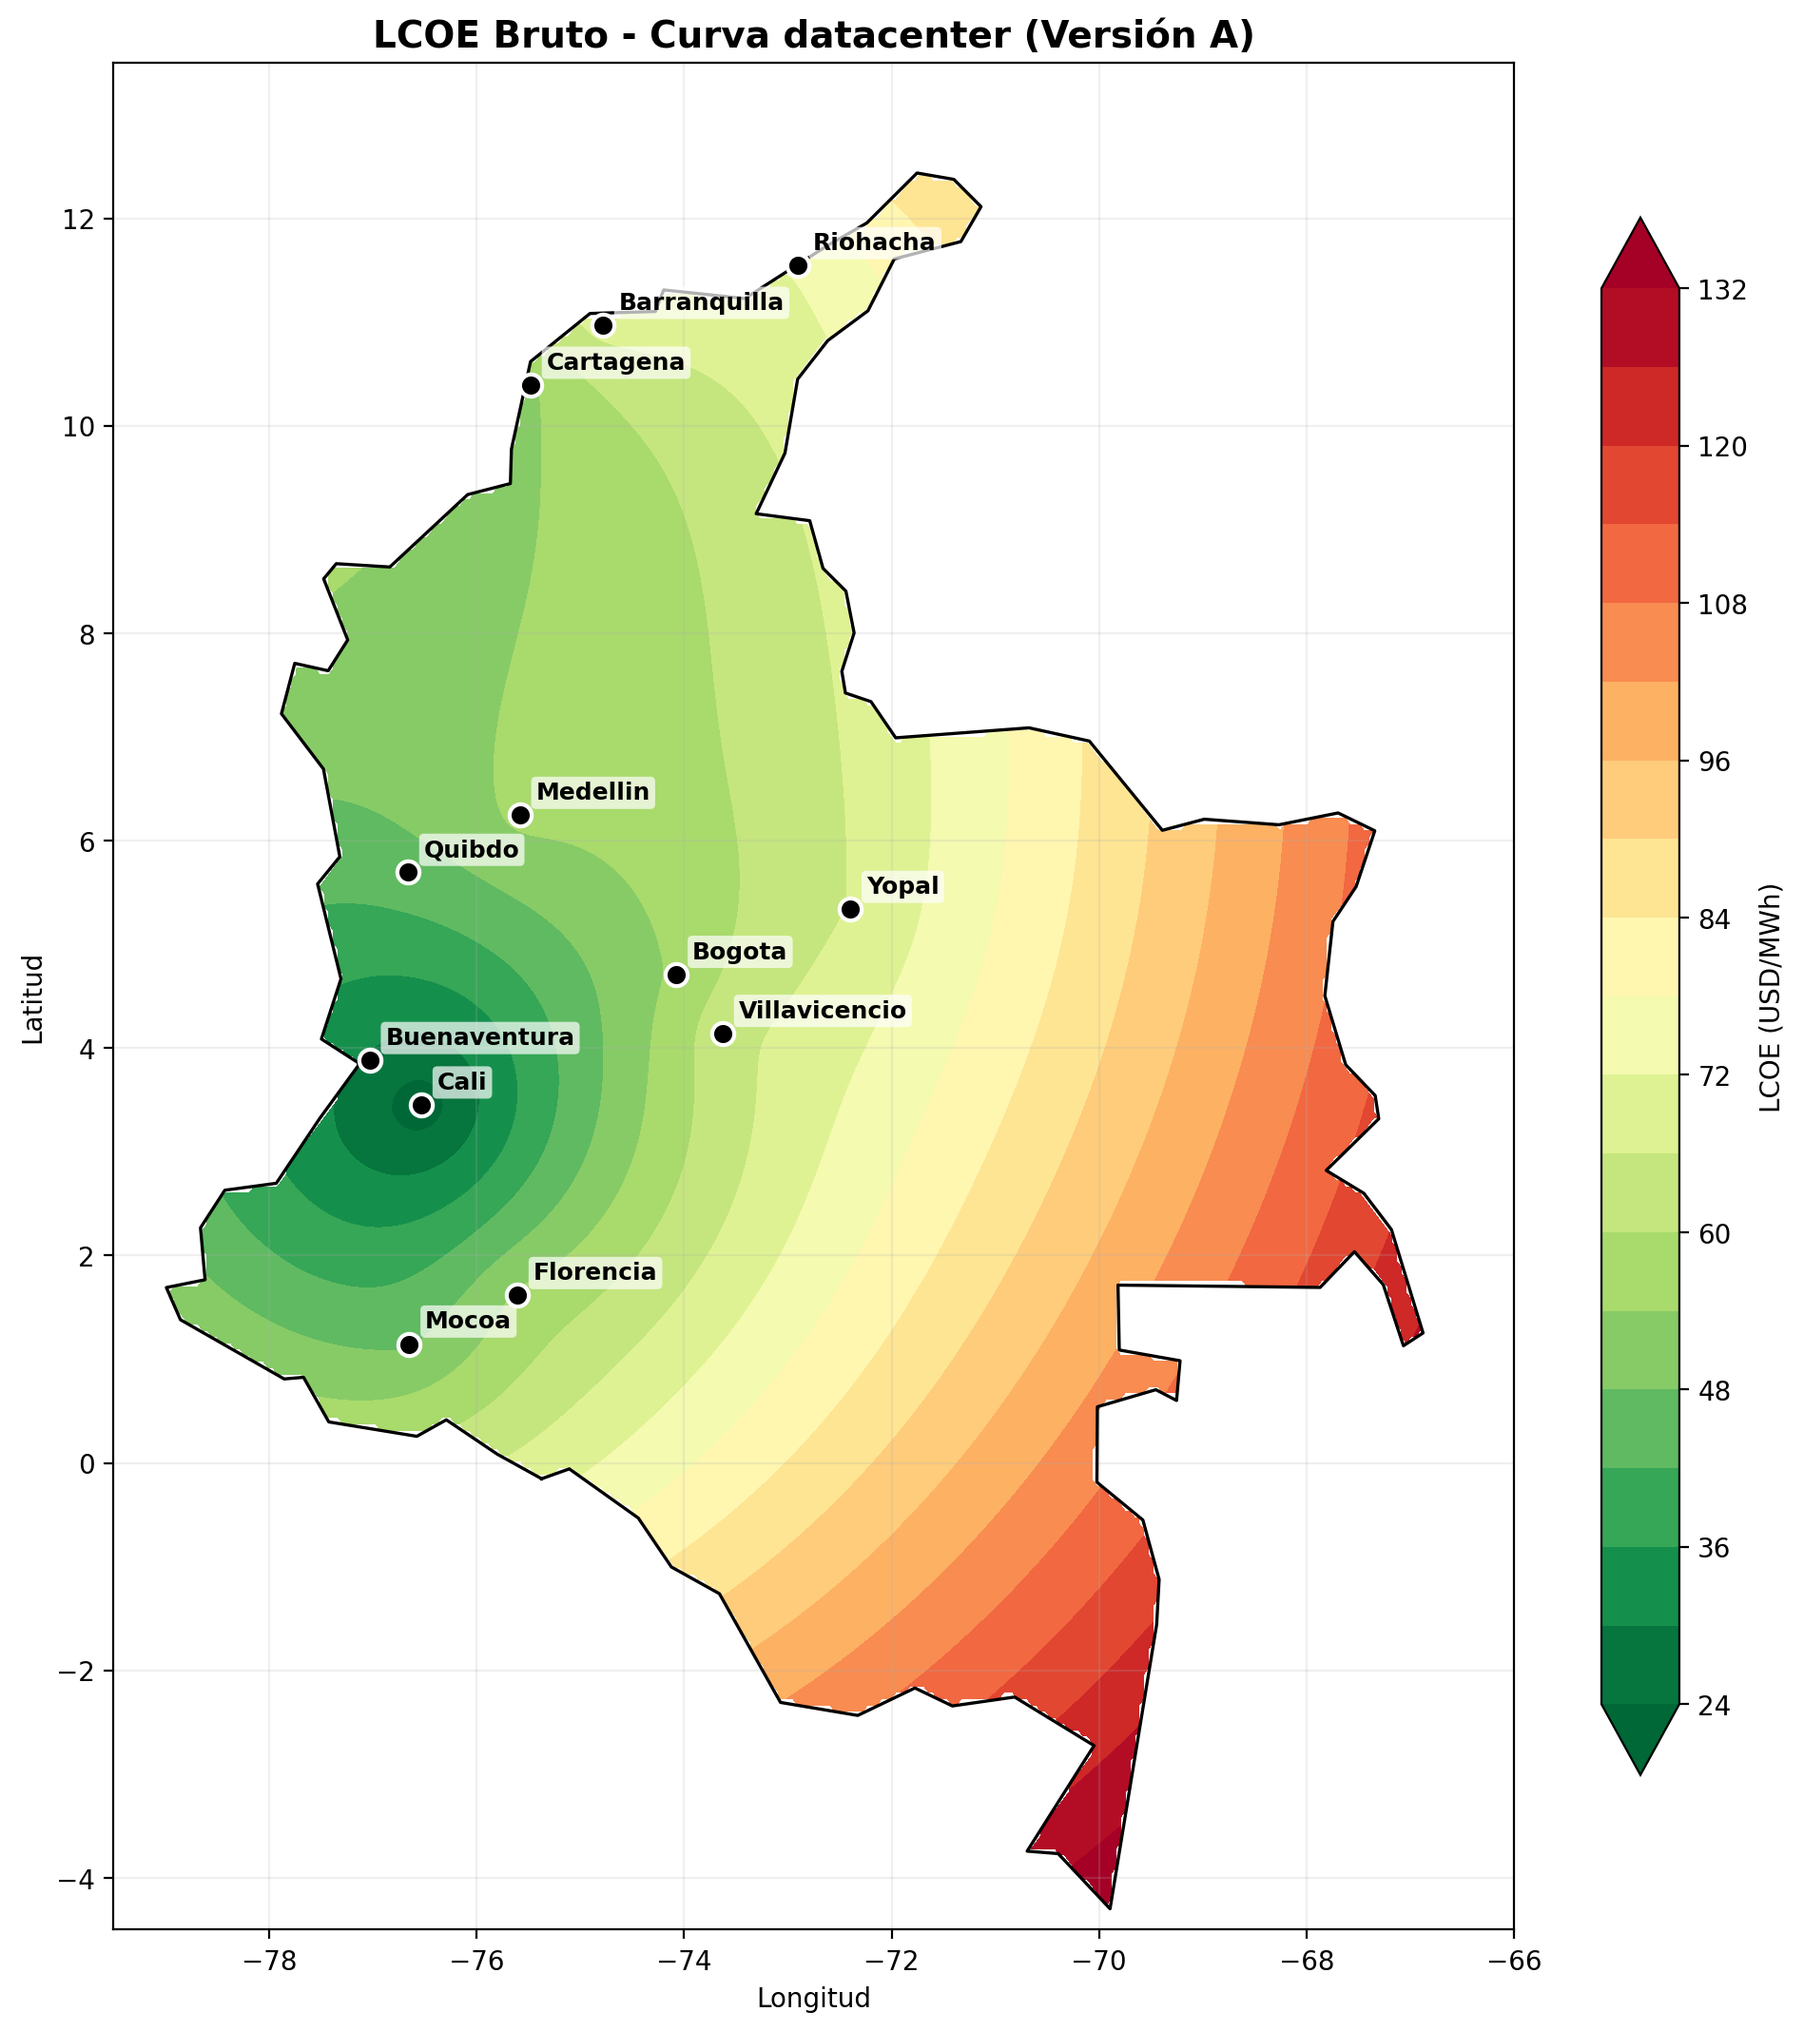
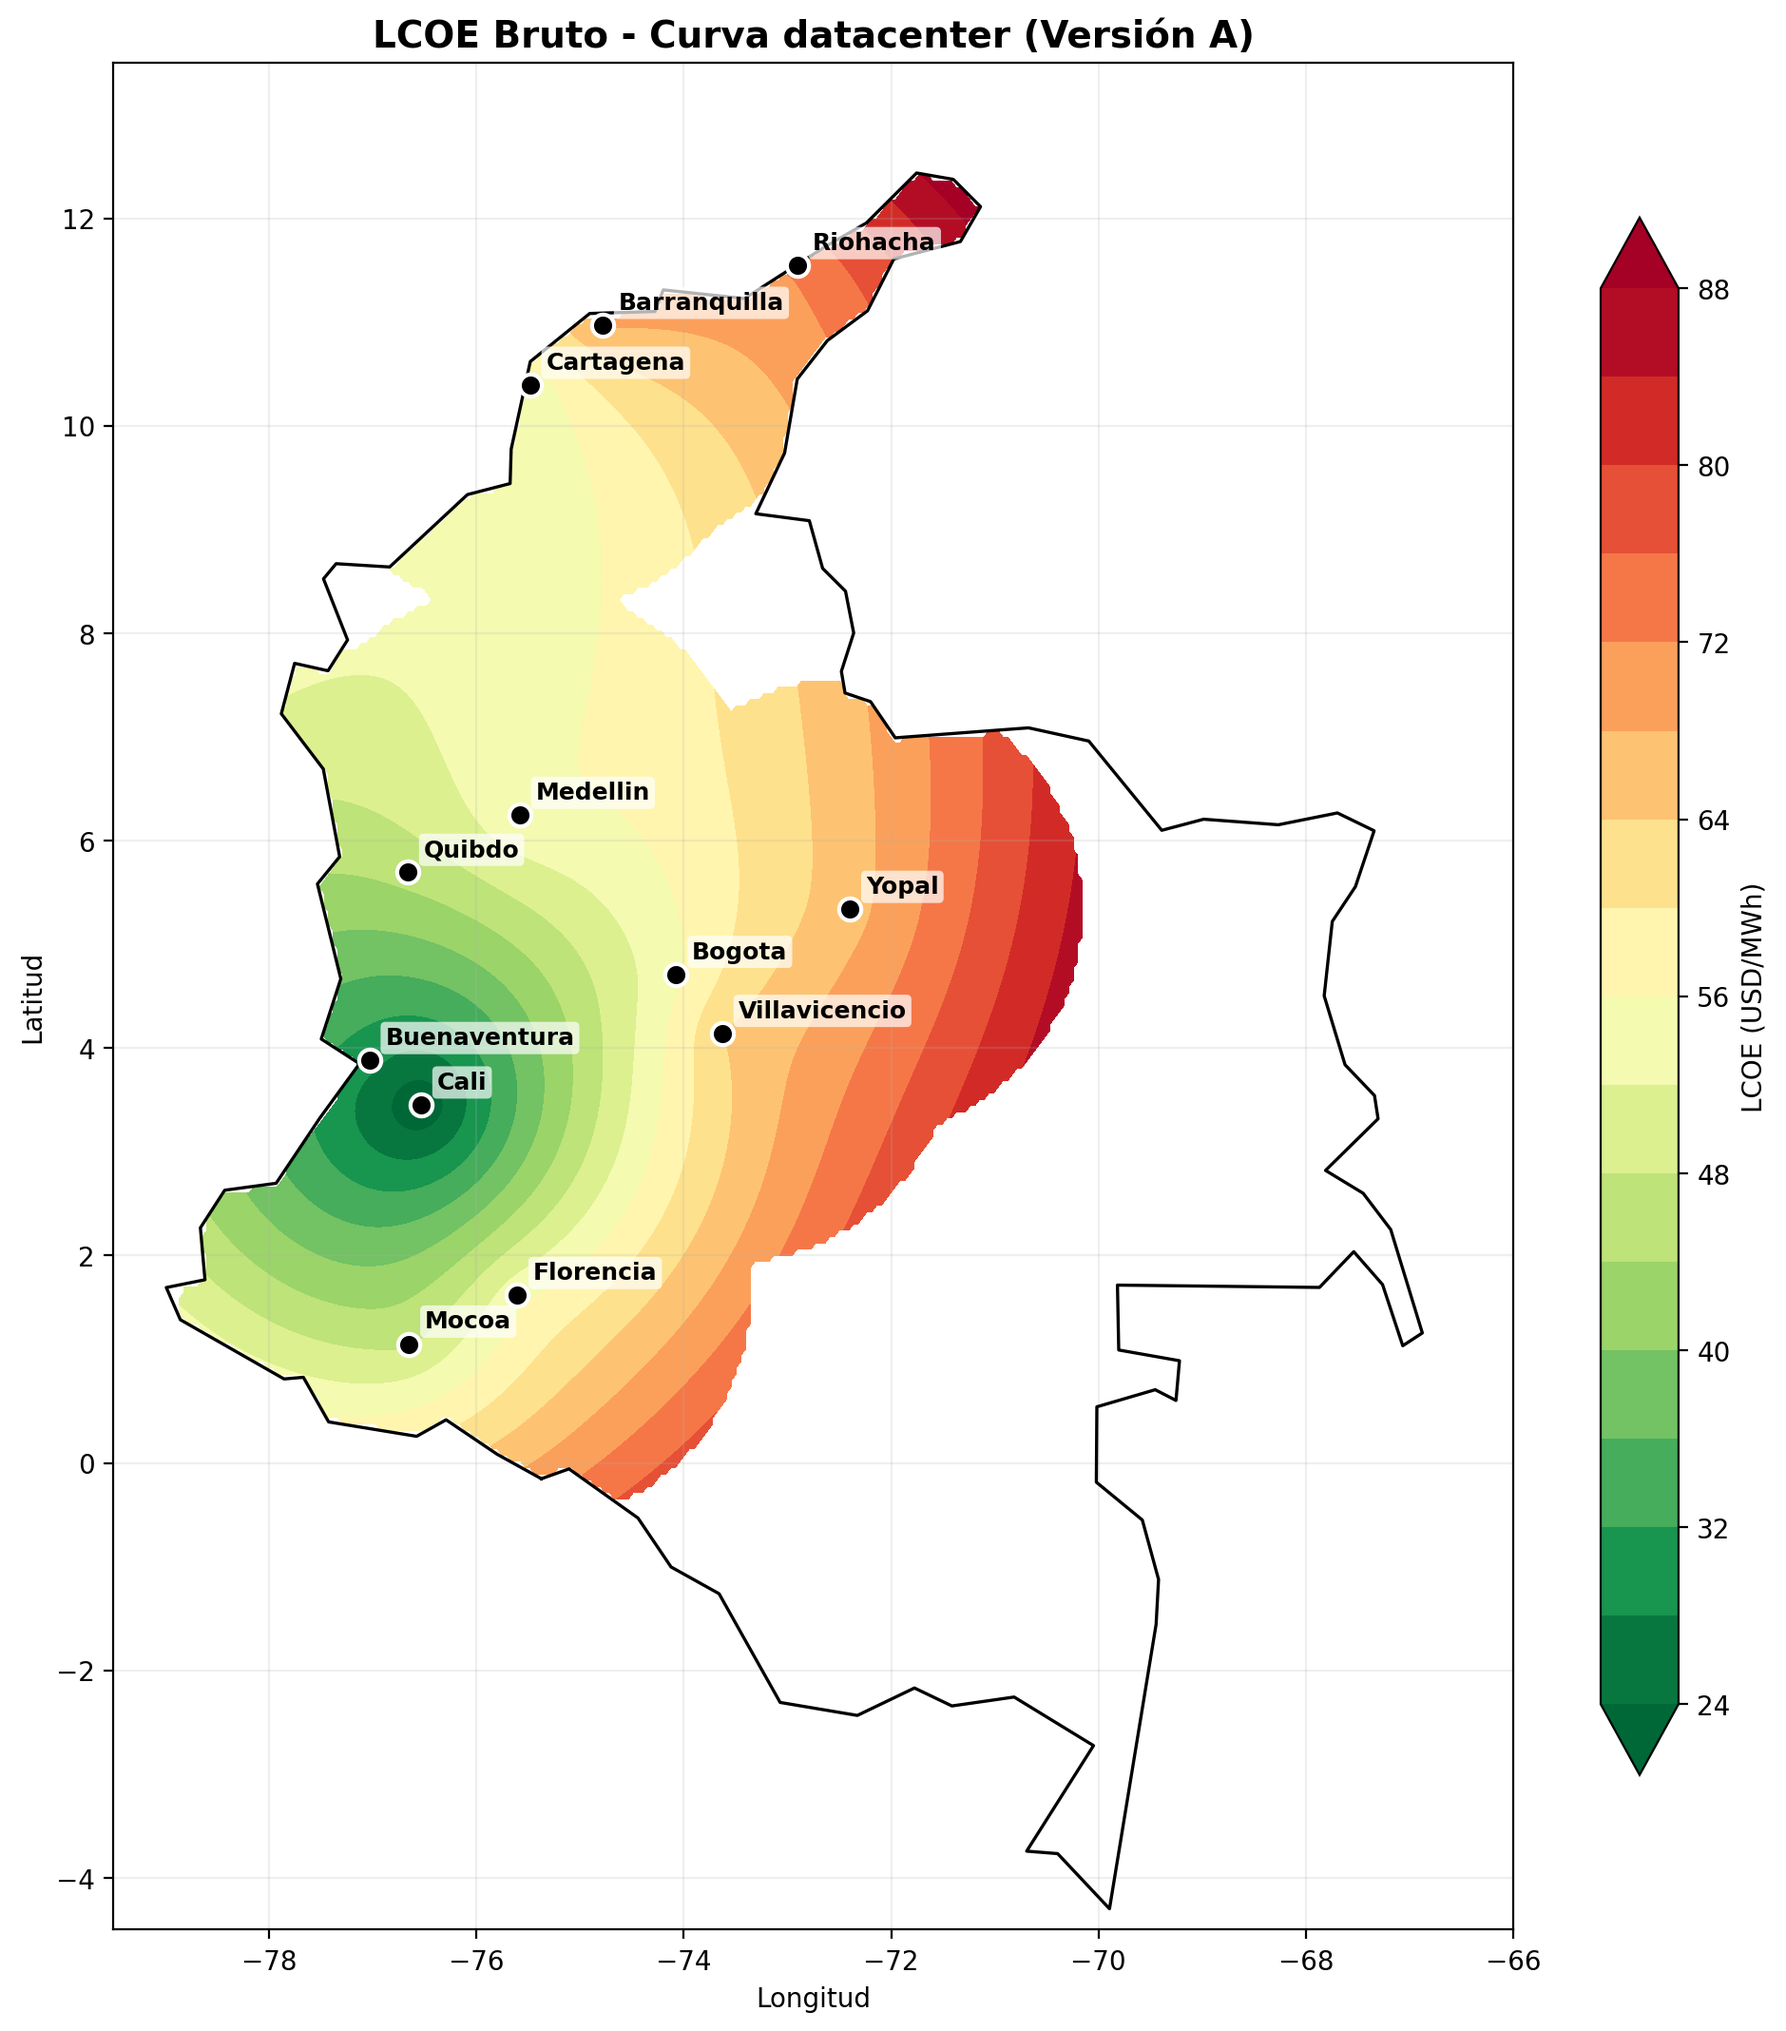
Actualizar generate_maps.py con enmascaramiento por distancia máxima (250 km)

diff --git a/scripts/generate_maps.py b/scripts/generate_maps.py
@@ -1,4 +1,6 @@
-"""Genera mapas de LCOE (gross y neto) para Colombia con contorno del país."""
+"""Genera mapas de LCOE (gross y neto) para Colombia con contorno del país
+y enmascaramiento por distancia máxima a puntos de datos."""
+
 import sys
 import json
 import urllib.request
@@ -9,8 +11,7 @@ sys.path.insert(0, str(Path(__file__).resolve().parent.parent))
 import numpy as np
 import pandas as pd
 import matplotlib.pyplot as plt
-import matplotlib.path as mpath
-from matplotlib.patches import PathPatch
+from matplotlib.path import Path as MplPath
 from scipy.interpolate import Rbf
 
 from src.locations import LOCATIONS
@@ -23,25 +24,27 @@ OUTPUT_DIR.mkdir(parents=True, exist_ok=True)
 GEOJSON_URL = "https://raw.githubusercontent.com/johan/world.geo.json/master/countries/COL.geo.json"
 GEOJSON_PATH = PROJECT_ROOT / "data" / "colombia.geojson"
 
+# Distancia máxima (km) desde el punto de datos más cercano para colorear un píxel.
+# Píxeles más lejanos quedan en blanco (evita extrapolación engañosa).
+MAX_DIST_KM = 250
+
 
 def descargar_geojson():
     """Descarga el GeoJSON de Colombia si no existe localmente."""
     if GEOJSON_PATH.exists():
         return
-    print(f"⬇  Descargando GeoJSON de Colombia...")
+    print("⬇  Descargando GeoJSON de Colombia...")
     GEOJSON_PATH.parent.mkdir(parents=True, exist_ok=True)
     urllib.request.urlretrieve(GEOJSON_URL, GEOJSON_PATH)
     print(f"   ✅ Guardado en {GEOJSON_PATH}")
 
 
 def cargar_poligono_colombia():
-    """Carga el GeoJSON de Colombia y retorna una lista de trayectorias (paths) y un Path compuesto."""
+    """Carga el GeoJSON de Colombia y retorna una lista de anillos (arrays Nx2)."""
     with open(GEOJSON_PATH, "r", encoding="utf-8") as f:
         data = json.load(f)
 
-    # Puede haber múltiples features (continente + islas)
     paths = []
-    vertices_all = []
     for feature in data["features"]:
         geom = feature["geometry"]
         if geom["type"] == "Polygon":
@@ -54,14 +57,18 @@ def cargar_poligono_colombia():
             for ring in poly:
                 arr = np.array(ring)
                 paths.append(arr)
-                vertices_all.append(arr)
-
     return paths
 
 
-def generar_mapa(lons, lats, values, titulo, output_path, colombia_paths):
-    """Genera un mapa de Colombia con LCOE interpolado y enmascarado al territorio."""
+def generar_mapa(lons, lats, values, titulo, output_path, colombia_paths,
+                 max_dist_km=MAX_DIST_KM):
+    """
+    Genera un mapa de Colombia con LCOE interpolado y enmascarado.
 
+    Parámetros:
+    - max_dist_km: distancia máxima (km) desde el punto de datos más cercano.
+                   Píxeles más alejados quedan en blanco.
+    """
     # Malla geográfica
     lon_grid = np.linspace(-79.5, -66, 300)
     lat_grid = np.linspace(-4.5, 13.5, 300)
@@ -71,22 +78,33 @@ def generar_mapa(lons, lats, values, titulo, output_path, colombia_paths):
     rbf = Rbf(lons, lats, values, function='linear', smooth=0.5)
     lcoe_grid = rbf(lon_mesh, lat_mesh)
 
-    # ------- Crear máscara con el polígono de Colombia -------
-    # Convertir el meshgrid en puntos y verificar si están dentro del polígono
-    from matplotlib.path import Path as MplPath
-    puntos = np.column_stack([lon_mesh.ravel(), lat_mesh.ravel()])
-    mascara = np.zeros(len(puntos), dtype=bool)
+    # ---------- Máscara 1: dentro del territorio colombiano ----------
+    grid_points = np.column_stack([lon_mesh.ravel(), lat_mesh.ravel()])
+    inside_colombia = np.zeros(len(grid_points), dtype=bool)
     for ring in colombia_paths:
         mpl_path = MplPath(ring)
-        mascara |= mpl_path.contains_points(puntos)
-    mascara = mascara.reshape(lon_mesh.shape)
+        inside_colombia |= mpl_path.contains_points(grid_points)
+    inside_colombia = inside_colombia.reshape(lon_mesh.shape)
 
+    # ---------- Máscara 2: dentro de max_dist_km del punto más cercano ----------
+    mean_lat_rad = np.deg2rad(np.mean(lats))
+    km_per_deg_lat = 111.0
+    km_per_deg_lon = 111.0 * np.cos(mean_lat_rad)
+
+    dlon = (lon_mesh[..., None] - np.array(lons)) * km_per_deg_lon
+    dlat = (lat_mesh[..., None] - np.array(lats)) * km_per_deg_lat
+    dist_km = np.sqrt(dlon**2 + dlat**2)     # shape: (300, 300, n_points)
+    min_dist = dist_km.min(axis=-1)          # shape: (300, 300)
+    within_buffer = min_dist <= max_dist_km
+
+    # ---------- Máscara combinada ----------
+    mascara = inside_colombia & within_buffer
     lcoe_grid_masked = np.where(mascara, lcoe_grid, np.nan)
 
-    # ------- Plot -------
+    # ---------- Plot ----------
     fig, ax = plt.subplots(figsize=(10, 12))
 
-    # Relleno de LCOE dentro de Colombia
+    # Relleno de LCOE dentro de la máscara
     contour = ax.contourf(lon_mesh, lat_mesh, lcoe_grid_masked,
                           levels=20, cmap='RdYlGn_r', extend='both')
     cbar = plt.colorbar(contour, ax=ax, shrink=0.7, label='LCOE (USD/MWh)')
@@ -101,7 +119,8 @@ def generar_mapa(lons, lats, values, titulo, output_path, colombia_paths):
     for lon, lat, name in zip(lons, lats, values.index):
         ax.annotate(name, (lon, lat), xytext=(6, 6), textcoords='offset points',
                     fontsize=9, fontweight='bold', color='black', zorder=6,
-                    bbox=dict(boxstyle='round,pad=0.2', facecolor='white', alpha=0.7, edgecolor='none'))
+                    bbox=dict(boxstyle='round,pad=0.2', facecolor='white',
+                              alpha=0.7, edgecolor='none'))
 
     ax.set_xlim(-79.5, -66)
     ax.set_ylim(-4.5, 13.5)
@@ -115,7 +134,7 @@ def generar_mapa(lons, lats, values, titulo, output_path, colombia_paths):
     plt.tight_layout()
     plt.savefig(output_path, dpi=200, bbox_inches='tight')
     plt.close()
-    print(f"✅ Mapa guardado: {output_path.name}")
+    print(f"✅ Mapa guardado: {output_path.name}  (buffer={max_dist_km} km)")
 
 
 def get_location_coords():
@@ -163,7 +182,8 @@ def main():
 
     print(f"📍 Ubicaciones: {len(lcoe_gross)}")
     print(f"📊 Rango LCOE bruto: {lcoe_gross.min():.2f} - {lcoe_gross.max():.2f} USD/MWh")
-    print(f"📊 Rango LCOE neto:  {lcoe_net.min():.2f} - {lcoe_net.max():.2f} USD/MWh\n")
+    print(f"📊 Rango LCOE neto:  {lcoe_net.min():.2f} - {lcoe_net.max():.2f} USD/MWh")
+    print(f"🎯 Buffer máximo: {MAX_DIST_KM} km alrededor de cada punto\n")
 
     # Mapa 1: LCOE bruto histórico
     generar_mapa(lons, lats, lcoe_gross,
@@ -177,7 +197,7 @@ def main():
                  OUTPUT_DIR / "mapa_lcoe_net_historico.png",
                  colombia_paths)
 
-    # Mapa 3: LCOE bruto por curva de carga
+    # Mapa 3-5: LCOE bruto por curva de carga
     for curva in ['industria1', 'industria2', 'datacenter']:
         df_curva = df_ok[df_ok['load_curve'] == curva]
         lcoe_curva = df_curva.groupby('location')['lcoe_gross_usd_per_mwh'].mean()
